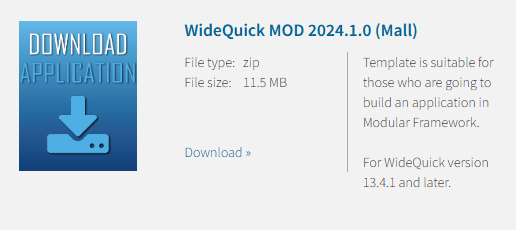
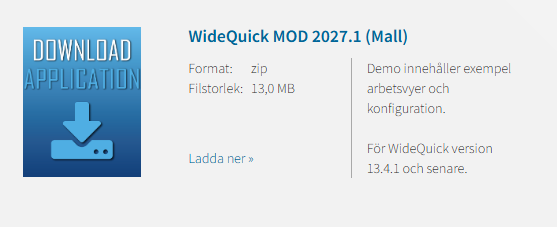
Mod - Download updated

diff --git a/docs/mod/get-started/download.md b/docs/mod/get-started/download.md
@@ -28,7 +28,7 @@ WideQuick MOD 2027.1.0 is available in two versions for download on the Kentima 
     opening the project files. See [Installing WideQuick](../../wq/get-started/index.md)
     for more information.
 
-[**Download WideQuick MOD 2027.1.0**](https://www.kentima.com/sv-SE/Download/HMI-SCADA%20CONCEPTS/MOD/Hamta%20applikation){target="_blank"}
+[**Download WideQuick MOD 2027.1.0**](https://www.kentima.com/sv-SE/Download/HMI-SCADA%20CONCEPTS/MOD/Hamta%20Applikation/Version%202027-1){target="_blank"}
 
 ### Template project
 

diff --git a/docs-sv/mod/get-started/download.md b/docs-sv/mod/get-started/download.md
@@ -28,7 +28,7 @@ WideQuick MOD 2027.1.0 finns i två versioner för nedladdning på Kentimas webb
     öppnar projektfilerna. Se [Installera WideQuick](../../wq/get-started/index.md)
     för mer information.
 
-[**Ladda ner WideQuick MOD 2027.1.0**](https://www.kentima.com/sv-SE/Download/HMI-SCADA%20CONCEPTS/MOD/Hamta%20applikation){target="_blank"}
+[**Ladda ner WideQuick MOD 2027.1.0**](https://www.kentima.com/sv-SE/Download/HMI-SCADA%20CONCEPTS/MOD/Hamta%20Applikation/Version%202027-1){target="_blank"}
 
 ### Mallprojekt
 
